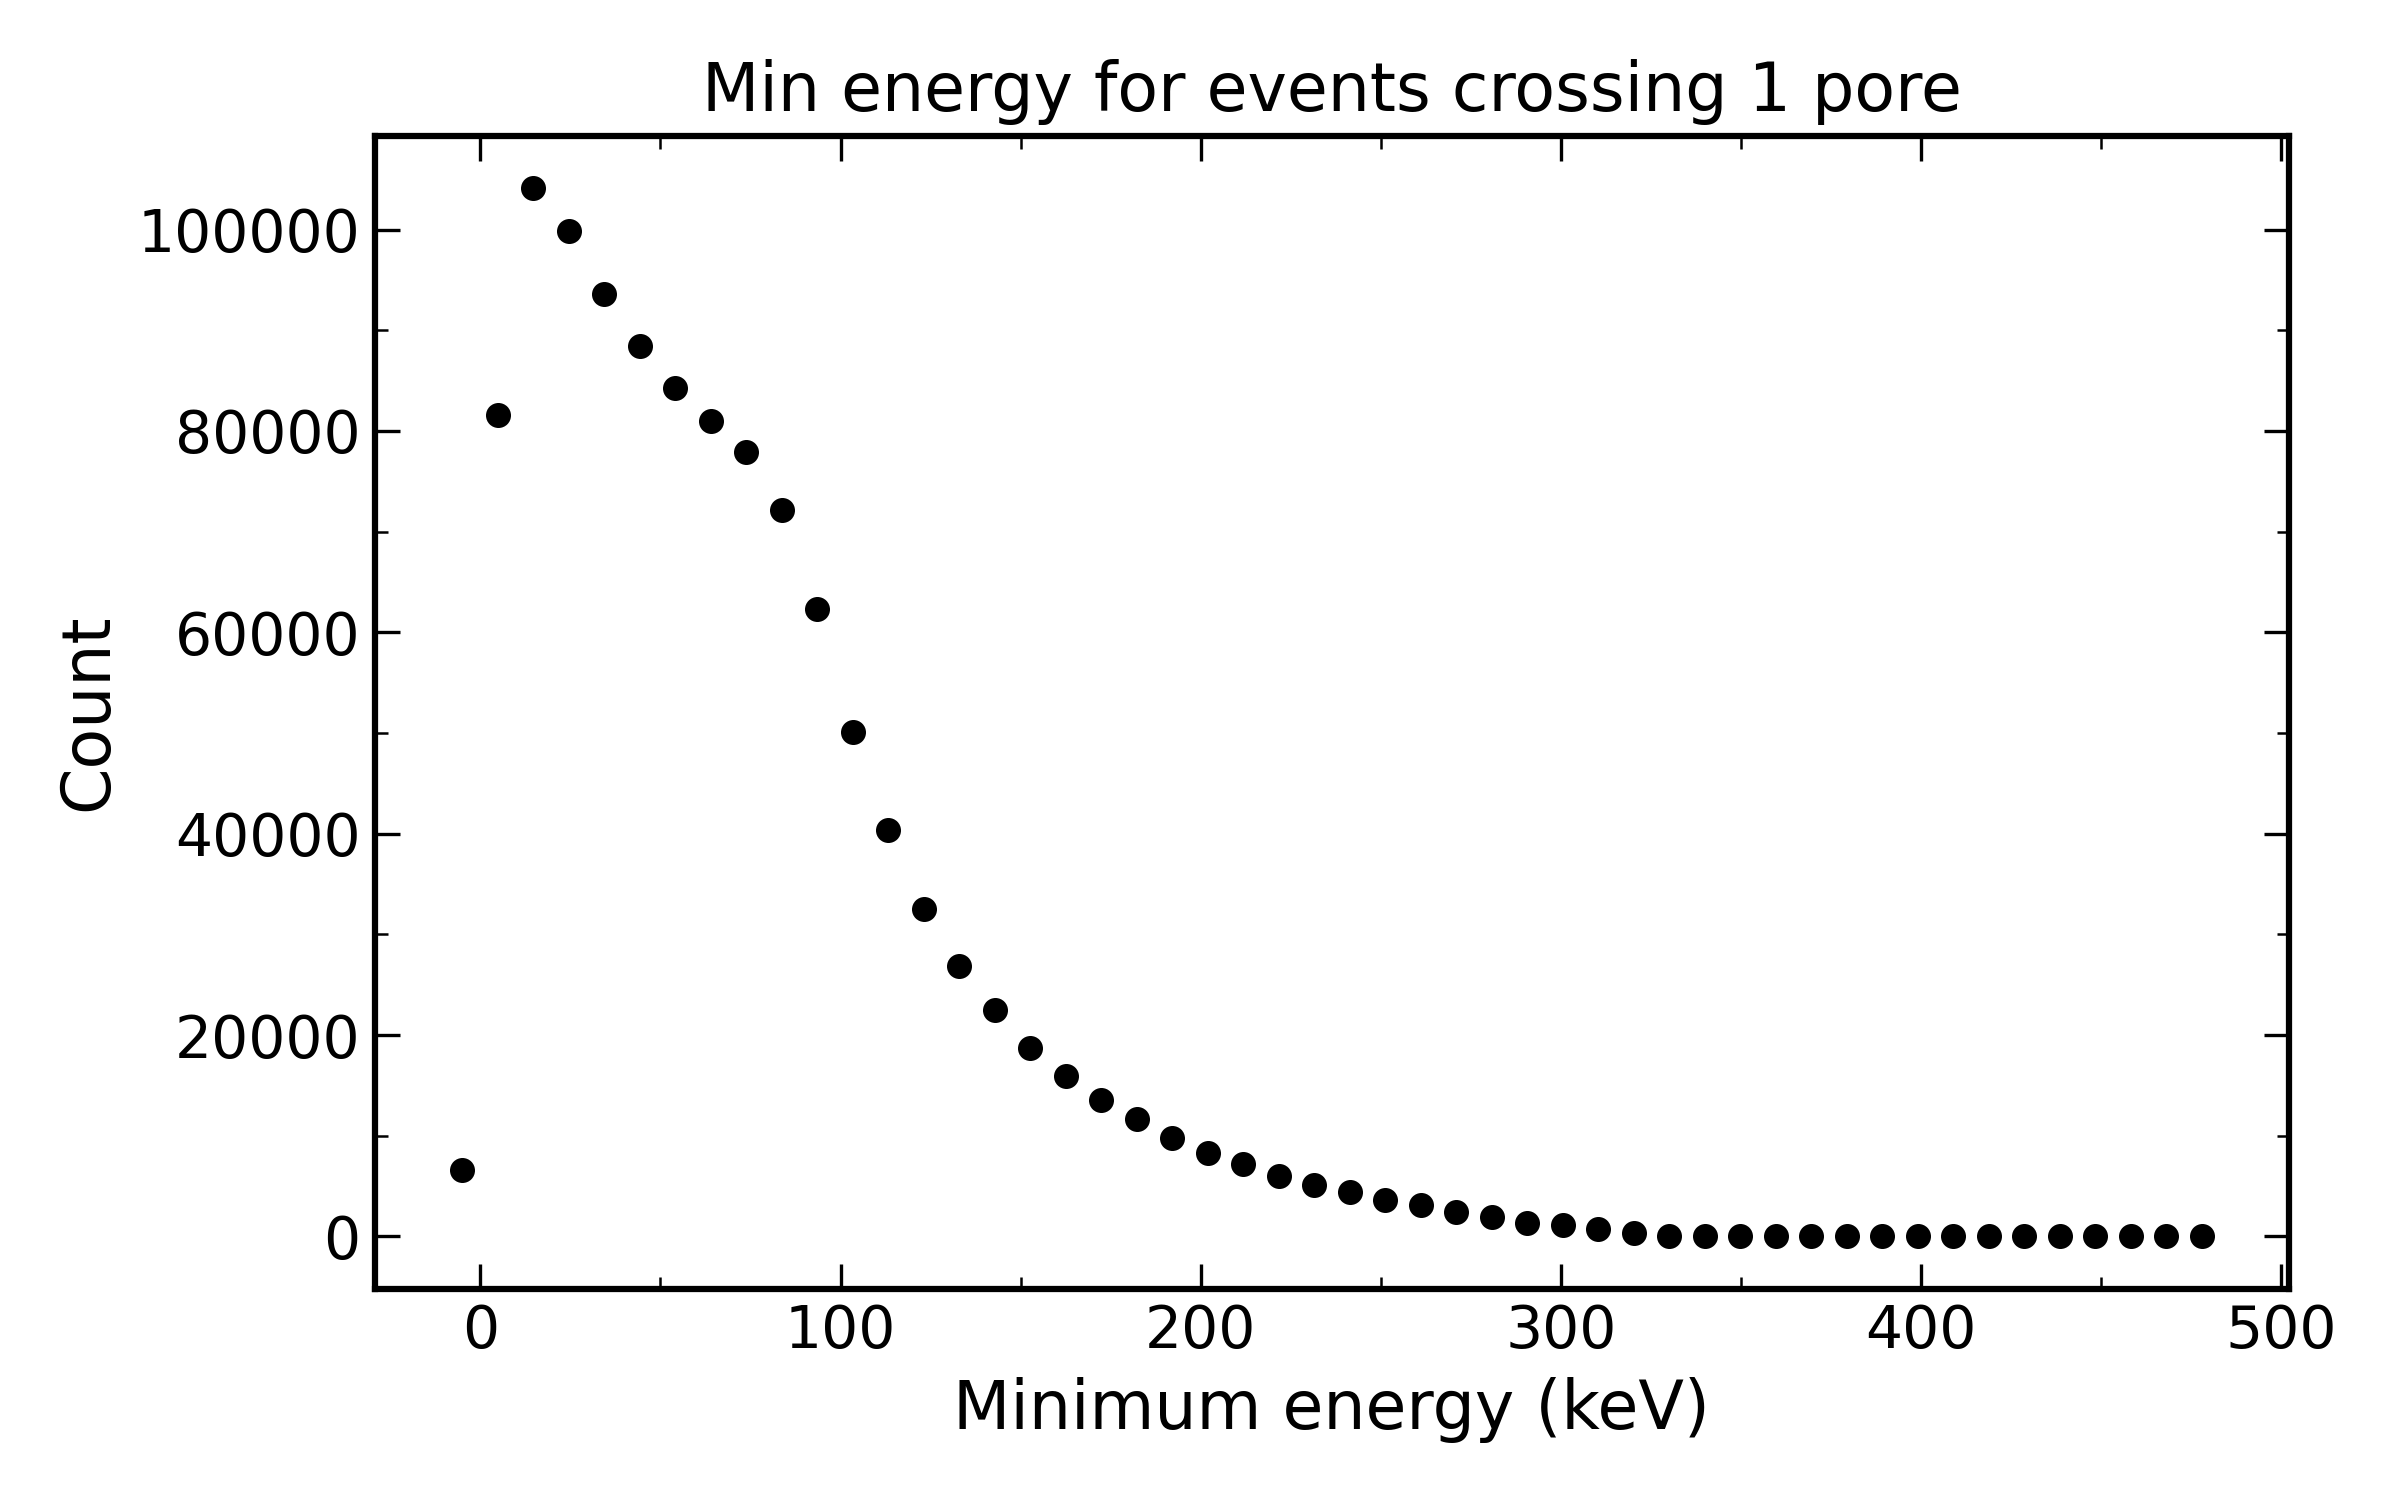
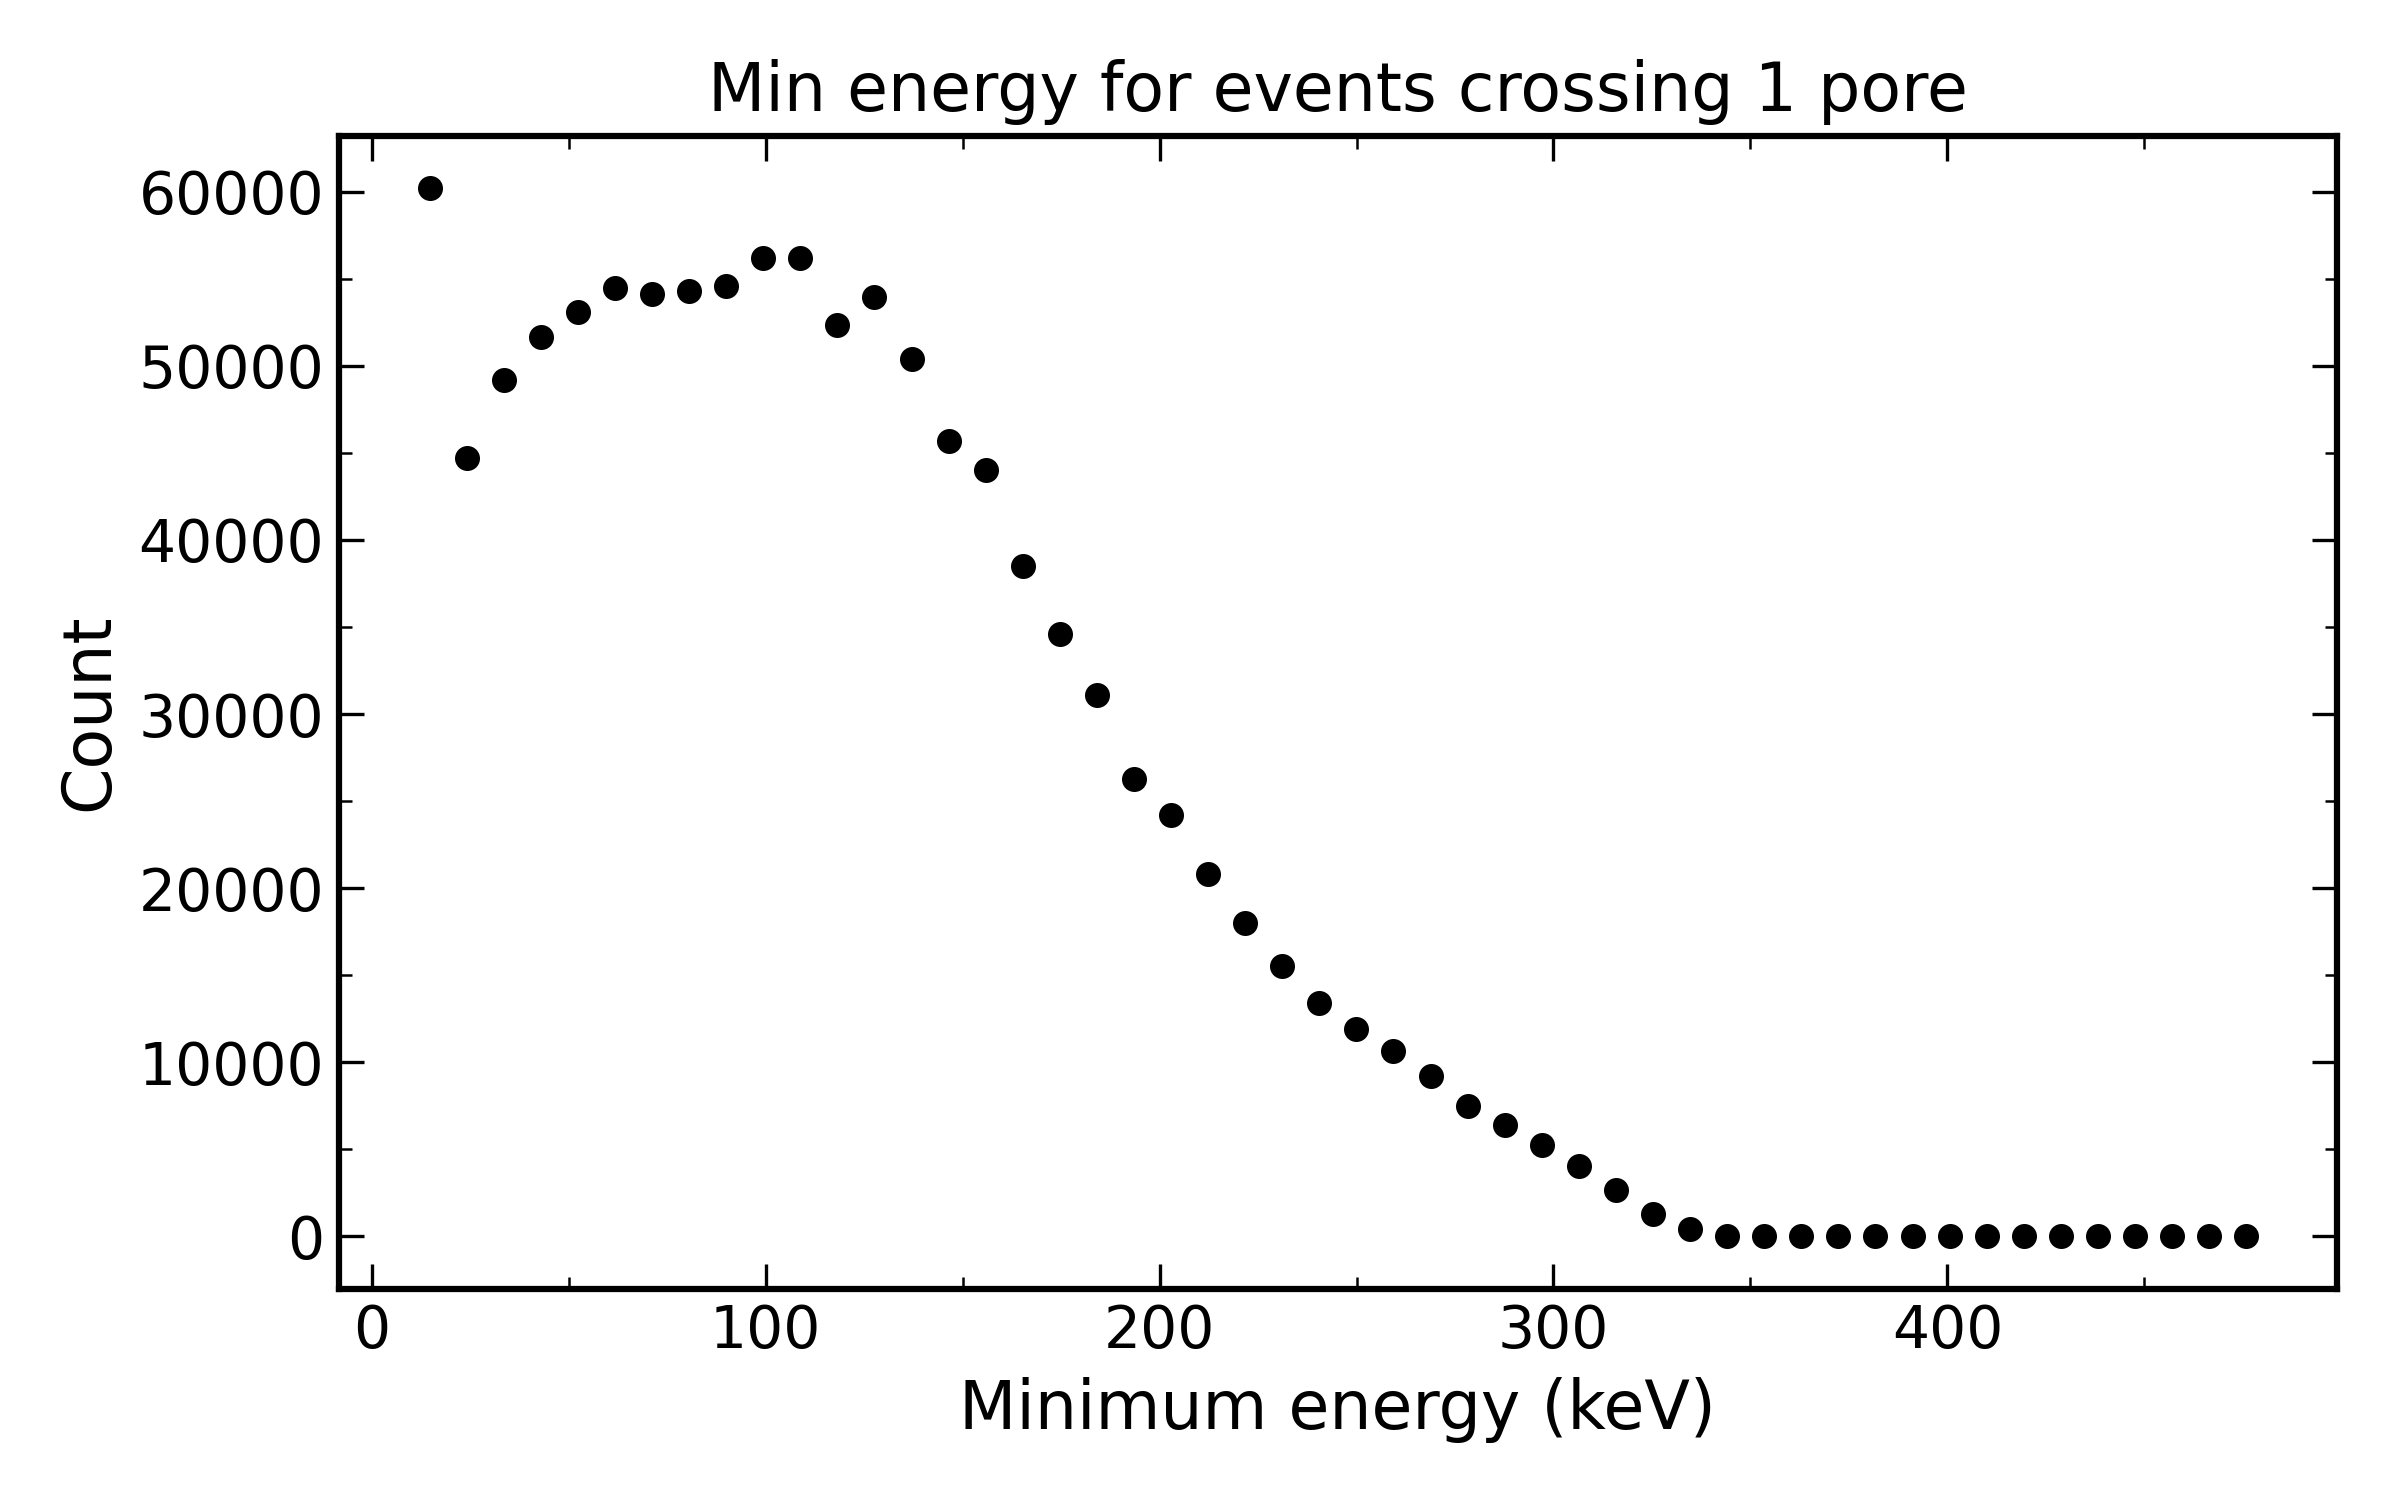
worked on energy profile algorithms

diff --git a/scripts/plotting_ex.py b/scripts/plotting_ex.py
@@ -1,0 +1,87 @@
+import numpy as np
+import matplotlib.pyplot as plt
+from matplotlib.ticker import AutoMinorLocator
+
+
+def plot_prettier(dpi=150, fontsize=17):
+	plt.rcParams['figure.dpi'] = dpi
+	plt.rc("savefig", dpi=dpi)
+	plt.rc('font', size=fontsize)
+	plt.rc('xtick', direction='in')
+	plt.rc('ytick', direction='in')
+	plt.rc('xtick.major', pad=5)
+	plt.rc('xtick.minor', pad=5)
+	plt.rc('ytick.major', pad=5)
+	plt.rc('ytick.minor', pad=5)
+	plt.rc('lines', dotted_pattern = [2., 2.])
+	# plt.rc('text', usetex=True)
+
+plot_prettier()
+
+def add_minor_ticks(plot, ticks, bot=True, tp=True, lft=True, rght=True, xticks=None, yticks=None):
+	plot.tick_params(which = 'minor', bottom=bot, top=tp, left=lft, right=rght)
+	plot.tick_params(bottom=True, top=True, left=True, right=True)
+	if (bot or tp):
+		if (xticks != None):
+			plot.xaxis.set_minor_locator(AutoMinorLocator(int(xticks)))
+		else:
+			plot.xaxis.set_minor_locator(AutoMinorLocator(int(ticks)))
+	if (lft or rght):
+		if (yticks != None):
+			plot.yaxis.set_minor_locator(AutoMinorLocator(int(yticks)))
+		else:
+			plot.yaxis.set_minor_locator(AutoMinorLocator(int(ticks)))	
+
+
+
+example_x = np.linspace(0, 2 * np.e, 100)
+example_y = np.exp(-example_x)
+
+tau  = np.array([5, 4, 3, 2, 1])
+
+chains_per_gamma = np.array([0.68, 0.72, 0.76, 0.79, 0.79 + (0.79 - 0.76)])
+
+hit_first_scatter_eff = [0.51, 0.56, 0.61, 0.65, 0.65 + (0.65-0.61)]
+hit_second_scatter_eff = [0.33, 0.36, 0.41, 0.46, 0.46 + (0.46-0.41)]
+hit_third_scatter_eff = [0.18, 0.20, 0.24, 0.29, 0.29 + (0.29-0.24)]
+first_hit_second_scatter_eff = [0.083, 0.085, 0.086, 0.087, 0.087 + (0.087-0.086)]
+first_hit_third_scatter_eff = [0.032, 0.031, 0.030, 0.028, 0.028 + (0.028-0.030)]
+
+lors_per_annihilation = np.array([0.51, 0.57, 0.63, 0.69, 0.69 + (0.69 - 0.63)])
+lors11_per_annihilation = np.array([0.17, 0.19, 0.21, 0.23, 0.23 + (0.23 - 0.21)])
+lors12_per_annihilation = np.array([0.13, 0.14, 0.15, 0.16, 0.16 + (0.16 - 0.15)])
+lors22_per_annihilation = np.array([0.024, 0.026, 0.028, 0.029, 0.029 + (0.029 - 0.028)])
+
+ex_fig = plt.figure()
+ex_plt = ex_fig.add_subplot()
+ex_fig.subplots_adjust(top=0.88,bottom=0.13,left=0.17,right=0.9,hspace=0.2,wspace=0.2)
+
+"""ex_plt.plot(tau, hit_first_scatter_eff, 'o-', label=r"$ e^{-x} $", ms=10, color="black")
+ex_plt.plot(tau, hit_second_scatter_eff, '^-', label=r"$ e^{-x} $", ms=10, color="green")
+ex_plt.plot(tau, hit_third_scatter_eff, 's-', label=r"$ e^{-x} $", ms=10, color="blue")
+ex_plt.plot(tau, first_hit_second_scatter_eff, '^--', label=r"$ e^{-x} $", ms=10, markerfacecolor="none",color="green")
+ex_plt.plot(tau, first_hit_third_scatter_eff, 's--', label=r"$ e^{-x} $", ms=10, markerfacecolor="none",color="blue")"""
+
+ex_plt.plot(tau, lors_per_annihilation, 'o-', label=r"$ e^{-x} $", ms=10, color="black")
+ex_plt.plot(tau, lors11_per_annihilation, '^-', label=r"$ e^{-x} $", ms=10, color="red")
+ex_plt.plot(tau, lors12_per_annihilation, 's-', label=r"$ e^{-x} $", ms=10, color="blue")
+ex_plt.plot(tau, lors22_per_annihilation, 'x-', label=r"$ e^{-x} $", ms=10, color="green")
+
+ex_plt.set_xlim(left=0)
+ex_plt.set_ylim(bottom=0)
+ex_plt.set_ylim(top=1.0)
+
+ex_plt.set_xlabel("Tau(mils)")
+ex_plt.set_ylabel(r"LORs per Annihilation($\frac{LORs}{Annihilations}$)")
+ex_plt.set_title("LORs per Annihilation vs Tau")
+
+add_minor_ticks(ex_plt, 5)
+"""ex_plt.set_yscale("log")
+ex_plt.set_ylim(1e-2, 1)"""
+
+plt.savefig("plots/lors_per_annihil.png")
+
+
+plt.show()
+
+

diff --git a/src/hgmt_structs.c b/src/hgmt_structs.c
@@ -181,7 +181,7 @@ int pores_crossed(event *first_hit){
     double phi_alpha_diff = alpha/(2*r);
     double new_phi = wrap_pi(hit_phi + phi_diff - phi_alpha_diff);
     double new_phi_diff = wrap_pi(final_phi - new_phi);
-    int num_pores_crossed = 1 + floor(fabs(r*new_phi_diff/(alpha + tau)));
+    int num_pores_crossed = 1 + floor(fabs(r*new_phi_diff/tau));
     return num_pores_crossed;
 
 }
@@ -227,19 +227,31 @@ double min_energy(event *first_hit, int num_crosses){
     //now I need to find distance to first pore
     double r = (r1 + r2)/2;
     phi_diff = wrap_pi(phi_pore - hit_phi);
-    double phi_alpha_diff = alpha/(2*r);
+    double phi_alpha_diff = wrap_pi(alpha/(2*r));
     double phi_prime = wrap_pi(hit_phi + phi_diff - phi_alpha_diff);
     //first need to find change of phi to first pore
     double t = (hit_pos.x*sin(phi_prime) - hit_pos.y*cos(phi_prime))/(u.y*cos(phi_prime) - u.x*sin(phi_prime));
     double new_range = s_max_mm - t;
-    double min_energy = scatter_energy - pg_kapton_energy_keV(new_range);
+    //double min_energy = scatter_energy - pg_kapton_energy_keV(new_range);
+    double min_energy = pg_kapton_energy_keV(new_range);
     int num_pores = num_crosses - 1;
-    double phi_per_pore = tau/r;
+    double phi_per_pore = wrap_pi(tau/r);
+    if (t < 0){
+        printf("t_first value: %f\n", t);
+    }
     for (int i = 0; i < num_pores; i ++){
         phi_prime += phi_per_pore;
-        t = (hit_pos.x*sin(phi_prime) - hit_pos.y*cos(phi_prime))/(u.y*cos(phi_prime) - u.x*sin(phi_prime));
+        phi_prime = wrap_pi(phi_prime);
+        double t_old = t;
+        t = (hit_pos.x*sin(phi_prime) - hit_pos.y*cos(phi_prime))/(u.y*cos(phi_prime) - u.x*sin(phi_prime)) - t_old;
         new_range -= t;
-        min_energy -= pg_kapton_energy_keV(new_range);
+        if (t < 0){
+            //printf("t value: %f\n", t);
+            return(0);
+        }
+        //small cases where t is negative. will have to work through that. That doesn't make any sense tbh.
+        //min_energy -= pg_kapton_energy_keV(new_range);
+        min_energy = pg_kapton_energy_keV(new_range);
     }
     return min_energy;    
 }
